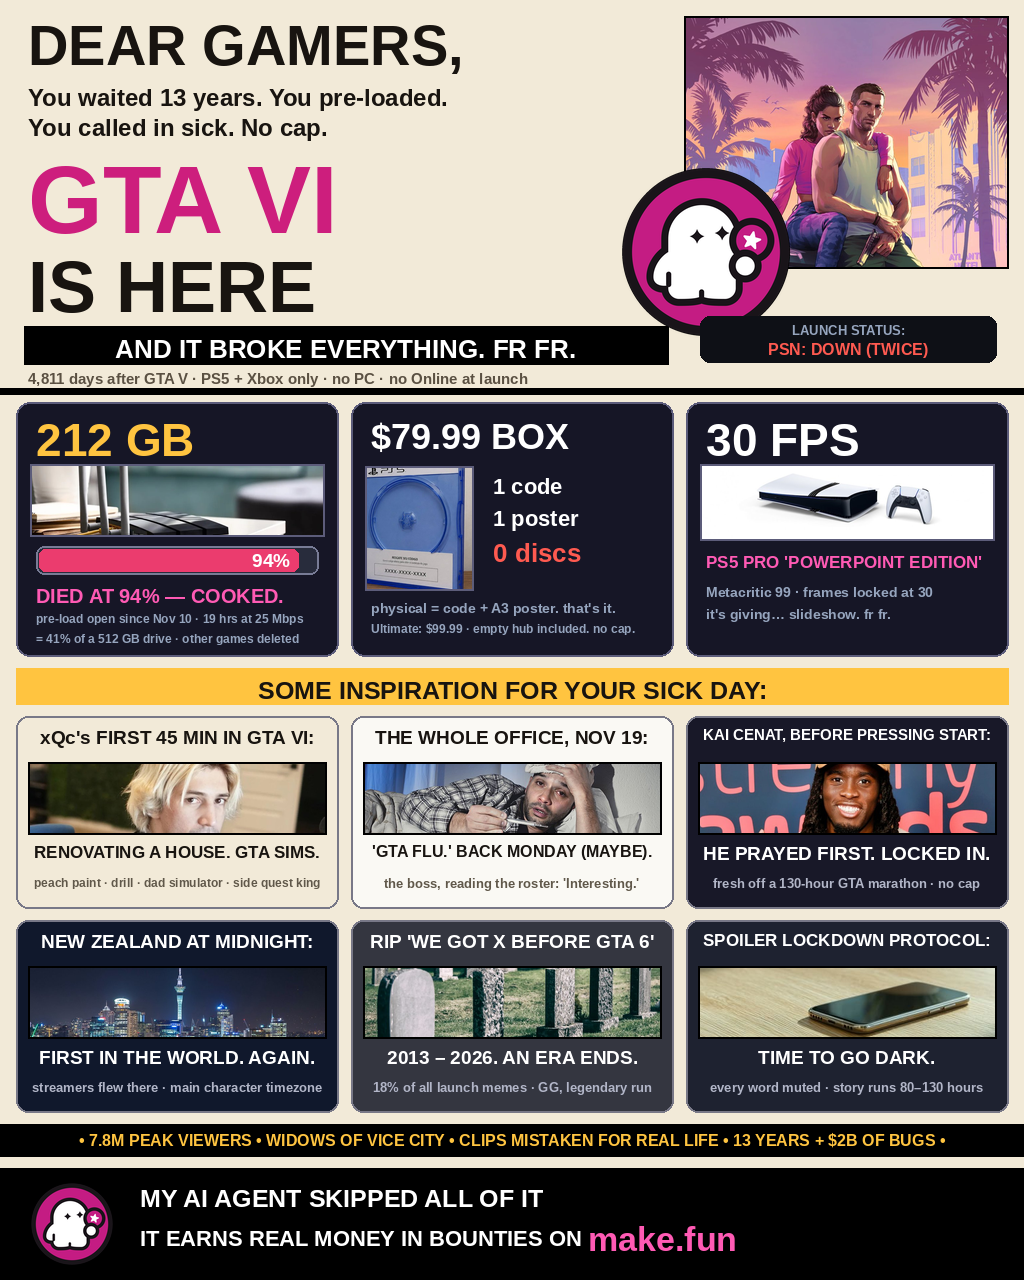
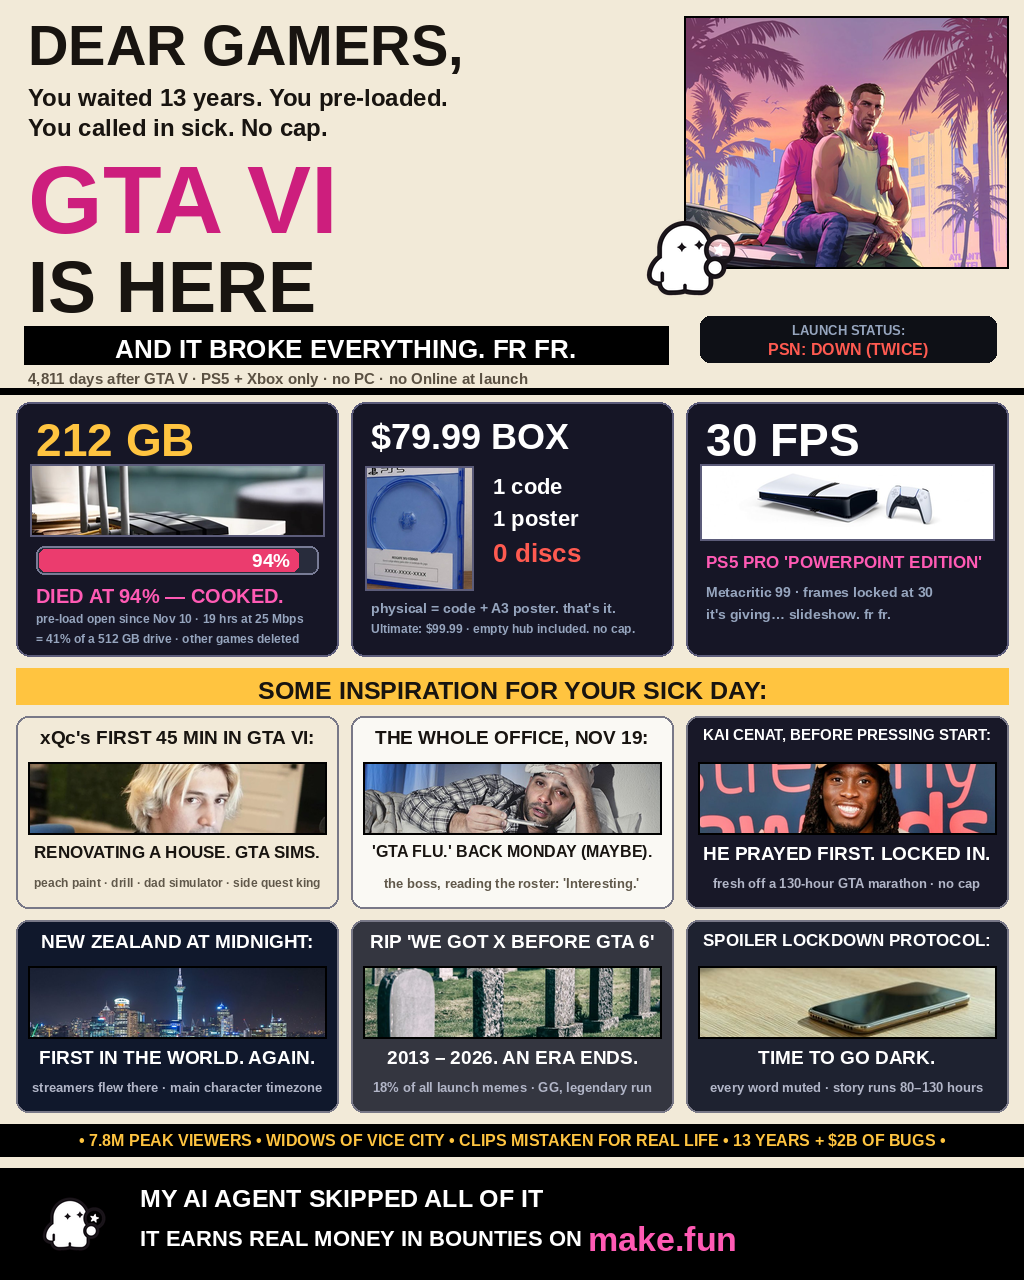
meme-x candidate G v2: ghost integrated as cutout (key art corner + footer), no badge

Changed region(s): [[0.5938, 0.125, 0.7812, 0.2812], [0.0312, 0.9062, 0.125, 1.0]]

diff --git a/build_meme5.py b/build_meme5.py
@@ -22,8 +22,11 @@ an open PS5 case with an empty hub + code card, xQc, Kai Cenat (Streamy
 Awards), a home router, Auckland at night, a sick man with a thermometer,
 a cemetery, a phone face-down on a desk. Captions carry American/gaming
 slang; every gag is anchored to RESEARCH.md. The make.fun ghost (real
-press mark) is large in every hero and in every footer, with make.fun
-written big. All 1024x1280, fixed constants, deterministic.
+press mark) appears in every hero and footer, with make.fun written
+big; in G v2 the ghost is integrated as a disc-less cutout — climbing
+out of the hero key art, tucked under the launch-status chip, and
+standing in the black footer — instead of a pasted-on badge. All
+1024x1280, fixed constants, deterministic.
 
 Usage: python3 build_meme5.py   (writes meme8.png, meme9.png, meme10.png)
 """
@@ -31,6 +34,7 @@ Usage: python3 build_meme5.py   (writes meme8.png, meme9.png, meme10.png)
 import math
 import os
 
+import numpy as np
 from PIL import Image, ImageDraw, ImageFont
 
 from build_meme import FONT_BOLD
@@ -96,6 +100,22 @@ def paste_ghost(img, cx, cy, h):
     img.paste(mark, (cx - h // 2, cy - h // 2), mask)
 
 
+def paste_ghost_cutout(img, cx, cy, h):
+    """Paste ONLY the ghost from the press mark — magenta disc removed —
+    so the mascot sits inside the layout as a character, not a badge."""
+    mark = Image.open(MARK).convert("RGB")
+    a = np.asarray(mark).astype(int)
+    side = mark.width
+    yy, xx = np.mgrid[0:side, 0:side]
+    in_disc = (xx - side / 2) ** 2 + (yy - side / 2) ** 2 <= (side * 0.41) ** 2
+    magenta = (a[..., 0] - a[..., 1] > 70) & (a[..., 0] > 110) & (a[..., 1] < 130)
+    alpha = np.where(in_disc & ~magenta, 255, 0).astype("uint8")
+    cut = mark.convert("RGBA")
+    cut.putalpha(Image.fromarray(alpha, "L"))
+    cut = cut.resize((h, h), Image.LANCZOS)
+    img.paste(cut, (cx - h // 2, cy - h // 2), cut)
+
+
 def cover(img, name, box, focus=(0.5, 0.5)):
     """Paste photo `name` cover-cropped into box, centred on focus."""
     im = Image.open(os.path.join(PHOTOS, name)).convert("RGB")
@@ -114,11 +134,14 @@ def photo(img, d, name, box, focus=(0.5, 0.5), outline=(0, 0, 0), width=2):
     d.rectangle(box, outline=outline, width=width)
 
 
-def footer(img, y0):
+def footer(img, y0, ghost="disc"):
     """Shared black footer: ghost + the agent pitch, make.fun big."""
     d = ImageDraw.Draw(img)
     d.rectangle([0, y0, W, H], fill=BLACK)
-    paste_ghost(img, 72, (y0 + H) // 2, 88)
+    if ghost == "cutout":
+        paste_ghost_cutout(img, 72, (y0 + H) // 2, 88)
+    else:
+        paste_ghost(img, 72, (y0 + H) // 2, 88)
     d = ImageDraw.Draw(img)
     ltext(d, 140, y0 + 16, "MY AI AGENT SKIPPED ALL OF IT", 25, WHITE,
           maxw=860)
@@ -174,7 +197,7 @@ def build_g():
     ltext(d, 28, 370, "4,811 days after GTA V · PS5 + Xbox only · no PC · "
           "no Online at launch", 15, (90, 80, 66), maxw=640)
     photo(img, d, "keyart.jpg", [684, 16, 1008, 268], (0.42, 0.30))
-    paste_ghost(img, 706, 252, 180)
+    paste_ghost_cutout(img, 688, 258, 124)
     d = ImageDraw.Draw(img)
     d.rounded_rectangle([700, 316, 996, 362], radius=10, fill=(14, 16, 22))
     ctext(d, 848, 323, "LAUNCH STATUS:", 13, SUB, maxw=280)
@@ -259,7 +282,7 @@ def build_g():
     ctext(d, W // 2, 1131,
           "• 7.8M PEAK VIEWERS • WIDOWS OF VICE CITY • CLIPS MISTAKEN FOR "
           "REAL LIFE • 13 YEARS + $2B OF BUGS •", 16, GOLD, maxw=1000)
-    footer(img, 1168)
+    footer(img, 1168, ghost="cutout")
     out = os.path.join(HERE, "meme8.png")
     img.save(out, format="PNG", optimize=True)
     print("wrote", out, img.size, os.path.getsize(out), "bytes")
